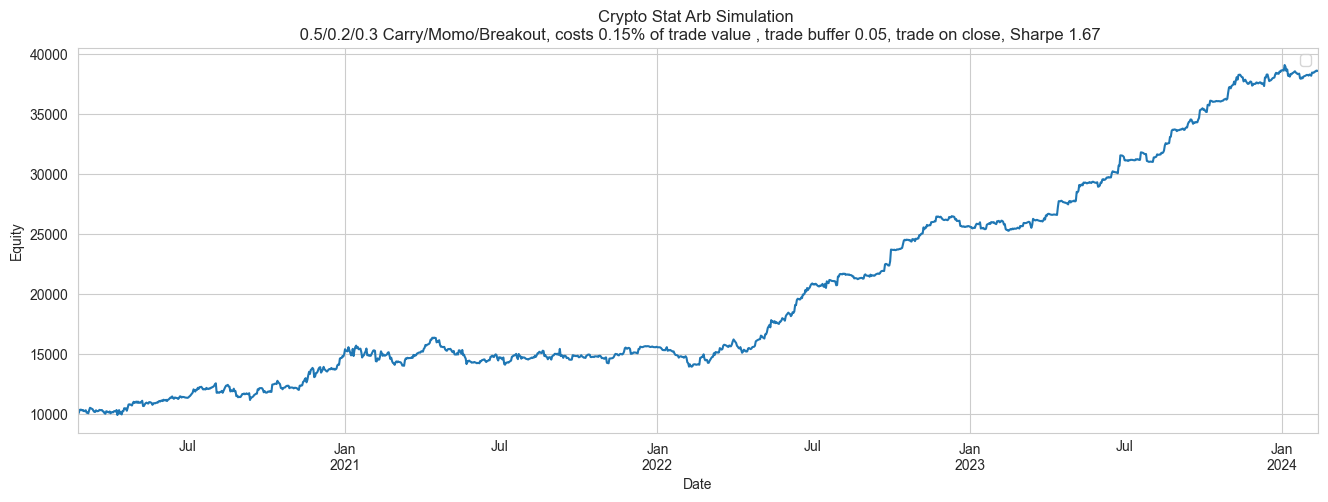
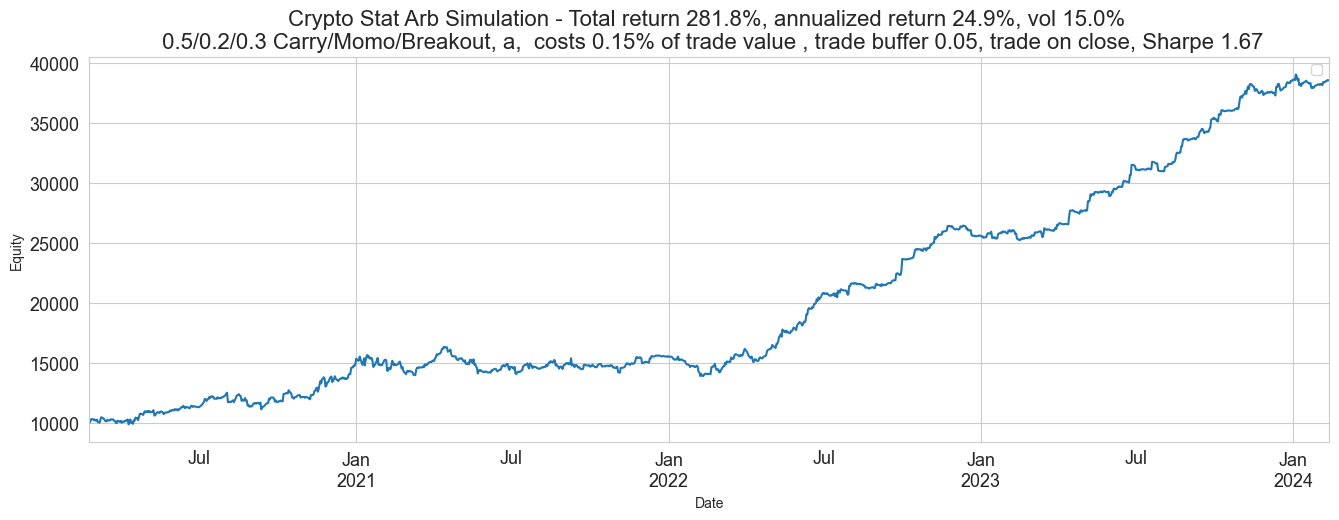
changes

Changed region(s): [[0.0, 0.0, 1.0, 0.9861]]

diff --git a/_posts/2024-03-11-crypto-stat-arb-II.md b/_posts/2024-03-11-crypto-stat-arb-II.md
@@ -1,4 +1,8 @@
 ---
+image:
+  path: {{ site.imageurl }}/CryptoStatArb/images_backtest/0_weights.png
+  height: 100
+  width: 100
 layout: post
 title: "Crypto Stat Arb Series II: Backtesting with a Trade Buffer"
 category: quant
@@ -198,8 +202,18 @@ commission_df = resulting_dfs['Commission']
 plot_equity(total_eq,sharpe)
 ```
 <center>
-<img src="{{ site.imageurl }}/CryptoStatArb/images_backtest/2_equity_curve.png" style="width:100%;"/>
+<img src="{{ site.imageurl }}/CryptoStatArb/images_backtest/2_equity_curve.png" style="width:110%;"/>
 </center>
+
+
+<center>
+<img src="{{ site.imageurl }}/CryptoStatArb/images_backtest/6_rolling_sharpe.png" style="width:100%;"/>
+</center>
+
+<center>
+<img src="{{ site.imageurl }}/CryptoStatArb/images_backtest/6_rolling_vol.png" style="width:100%;"/>
+</center>
+
 
 A Sharpe of 1.67, similar to the original post. Let's look at turnover. We can see that with a trade buffer of `0.05` the turnover on average hits `~4%` of the trading capital per day, with extremes of turning over `~15%` of the book. Interestingly, the strategy returns have negative skew.
 
@@ -207,6 +221,7 @@ A Sharpe of 1.67, similar to the original post. Let's look at turnover. We can s
 <center>
 <img src="{{ site.imageurl }}/CryptoStatArb/images_backtest/4_turnover.png" style="width:100%;"/>
 </center>
+
 
 
 <center>
@@ -305,14 +320,23 @@ xs_coeffs[['coef_carry_weight','coef_momo_weight','coef_breakout_weight']]
 <img src="{{ site.imageurl }}/CryptoStatArb/images_research/18_ts_lm_coeffs.png" style="width:100%;"/>
 </center>
 
-Similar to the statically weighted strategy, we can run it through the backtest to optimize for the buffer.
+Similar to the statically weighted strategy, we can run it through the backtest to optimize for the buffer. This time, we get higher volatility and lower return with a lower Sharpe ratio of 1.08.
 
 <center>
 <img src="{{ site.imageurl }}/CryptoStatArb/images_backtest/1_ts_sharpe_buffer.png" style="width:80%;"/>
 </center>
 
+
 <center>
 <img src="{{ site.imageurl }}/CryptoStatArb/images_backtest/2_ts_equity_curve.png" style="width:100%;"/>
+</center>
+
+<center>
+<img src="{{ site.imageurl }}/CryptoStatArb/images_backtest/6_ts_rolling_sharpe.png" style="width:100%;"/>
+</center>
+
+<center>
+<img src="{{ site.imageurl }}/CryptoStatArb/images_backtest/6_ts_rolling_vol.png" style="width:100%;"/>
 </center>
 
 <center>
